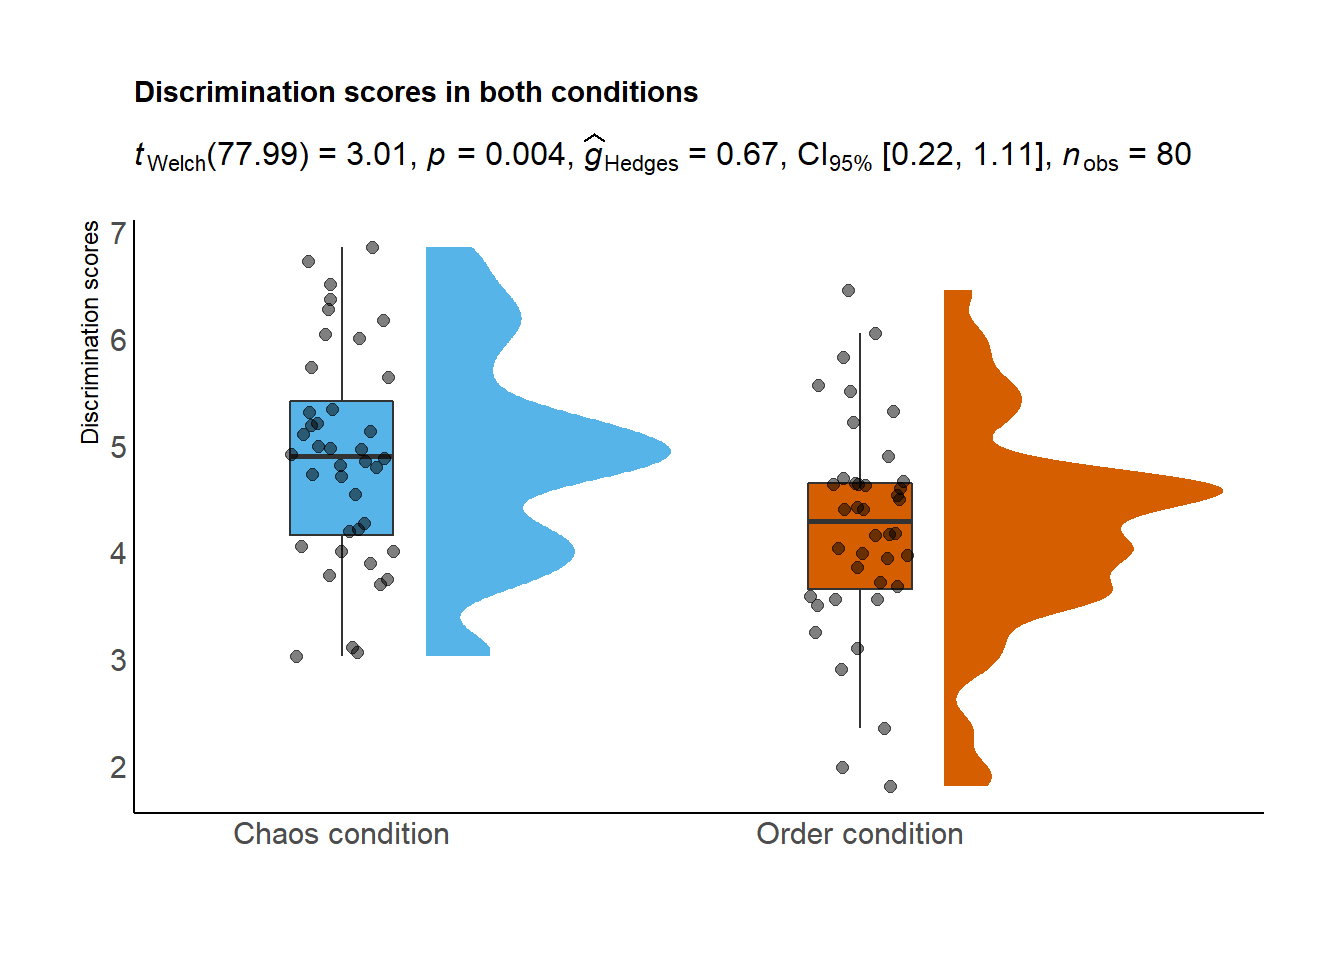
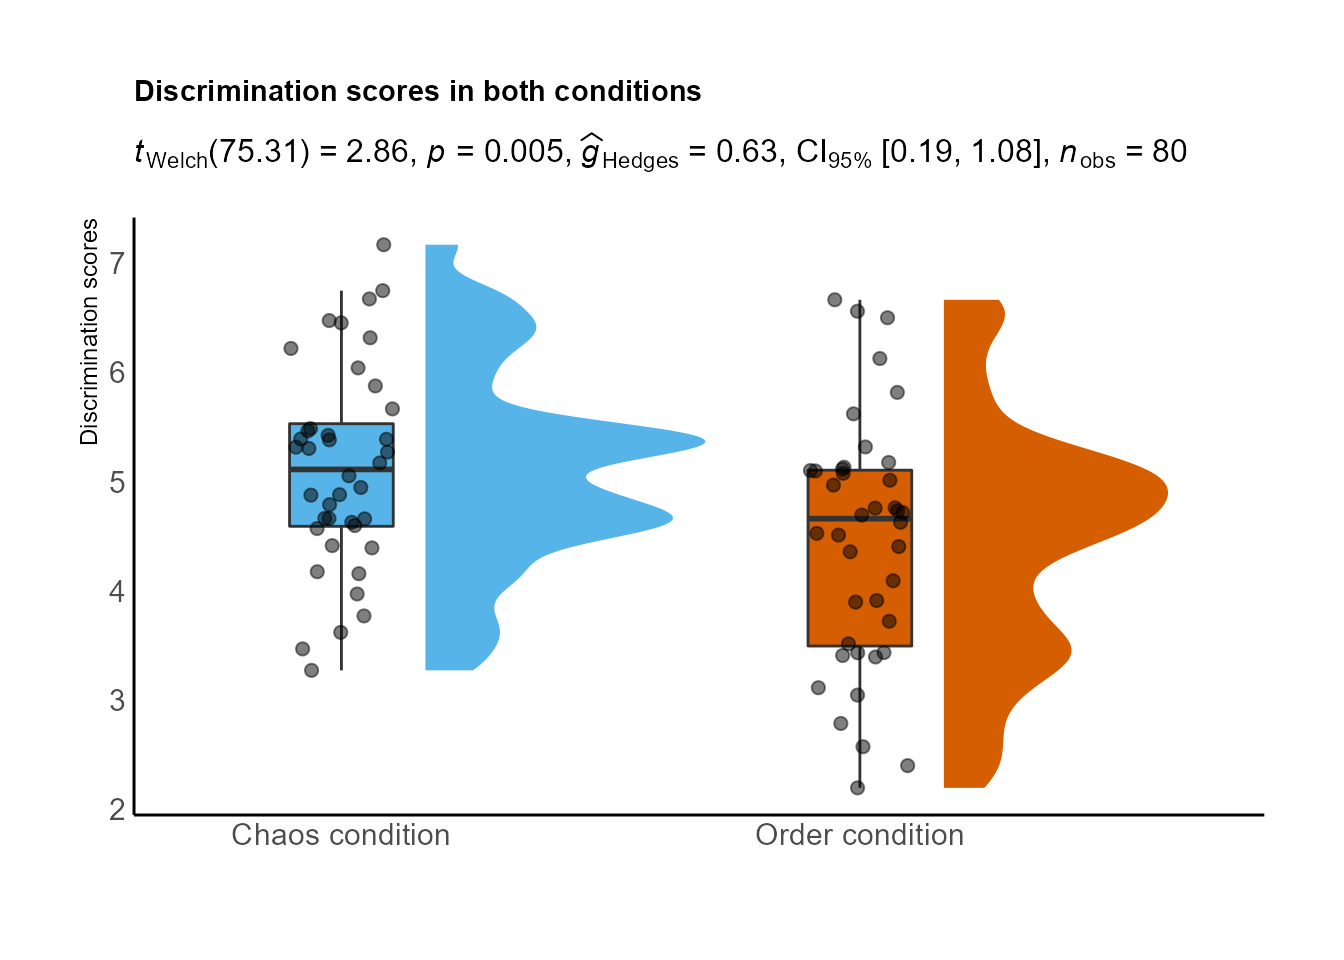
post

diff --git a/content/post/CopyOf2020-12-01-r-rmarkdown/index.html b/content/post/CopyOf2020-12-01-r-rmarkdown/index.html
@@ -82,7 +82,7 @@ library(ggplot2)</code></pre>
 ##  Shapiro-Wilk normality test
 ## 
 ## data:  dd[x, ]
-## W = 0.9746, p-value = 0.4967
+## W = 0.98371, p-value = 0.8228
 ## 
 ## --------------------------------------------------------------------------------------------------------------------------------------------------------------------------------------------------------------------------------------------------------------------------------------------------------------------------------------------------------------------------------------------------------------------------------------------------------------------------------------------------------------------------------------------- 
 ## data$condition: Order condition
@@ -90,7 +90,7 @@ library(ggplot2)</code></pre>
 ##  Shapiro-Wilk normality test
 ## 
 ## data:  dd[x, ]
-## W = 0.97647, p-value = 0.5607</code></pre>
+## W = 0.97414, p-value = 0.4815</code></pre>
 <p>Para comprobar la homogeneidad de las varianzas:</p>
 <p>F-test:</p>
 <pre class="r"><code>var.test(data$discrimination ~ data$condition) #F-test para comprobar la homogeneidad de las varianzas</code></pre>
@@ -98,18 +98,18 @@ library(ggplot2)</code></pre>
 ##  F test to compare two variances
 ## 
 ## data:  data$discrimination by data$condition
-## F = 0.98264, num df = 39, denom df = 39, p-value = 0.9567
+## F = 0.68234, num df = 39, denom df = 39, p-value = 0.2371
 ## alternative hypothesis: true ratio of variances is not equal to 1
 ## 95 percent confidence interval:
-##  0.5197181 1.8578978
+##  0.360889 1.290113
 ## sample estimates:
 ## ratio of variances 
-##          0.9826409</code></pre>
+##          0.6823398</code></pre>
 <p>Test de Levene. Por defecto utiliza la mediana (más robusto), pero podemos elegir la media con sustituyendo en el argumento center = “mean”</p>
 <pre class="r"><code>leveneTest(y = data$discrimination, group = data$condition, center = &quot;median&quot;) </code></pre>
 <pre><code>## Levene&#39;s Test for Homogeneity of Variance (center = &quot;median&quot;)
 ##       Df F value Pr(&gt;F)
-## group  1  0.0178 0.8941
+## group  1  1.0802 0.3019
 ##       78</code></pre>
 <p>Test de Barlett:</p>
 <pre class="r"><code>bartlett.test(data$discrimination ~ data$condition)</code></pre>
@@ -117,7 +117,7 @@ library(ggplot2)</code></pre>
 ##  Bartlett test of homogeneity of variances
 ## 
 ## data:  data$discrimination by data$condition
-## Bartlett&#39;s K-squared = 0.002952, df = 1, p-value = 0.9567</code></pre>
+## Bartlett&#39;s K-squared = 1.3979, df = 1, p-value = 0.2371</code></pre>
 <p>También podemos realizar el test de Brown-Forsyth con la función hov() del paquete HH o el Fligner-Killeen test utilizando la misma fórmula y la función fligner.test().</p>
 <p>Si el resultado del test que elijamos es p &lt; .05 no podemos asumir que las varianzas son iguales. Estas pruebas apuntarían a que nuestros grupos las varianzas no son homogéneas y utilizaríamos pruebas distintas para calcular si hay diferencias significativas entre las medias.</p>
 <p>Si utilizamos t.test() para las diferencias de medias el propio programa lleva a cabo una prueba (e.g. Two Sample t-test) u otra (e.g. Welch Two Sample t-test) en función de si hay igualdad de las varianzas, pero podemos forzarlo asumir igualdad de varianzas con el argumento var.equal = TRUE o a asumir lo contrario, con el argumento var.equal = FALSE. Por tanto, está bien tener control sobre lo que hacemos y elegir la mejor prueba, teniendo en cuanta nuestras consideraciones teóricas, para estudiar la homogeneidad de la varianza y, en consecuencia, el mejor test de comparación de medias.</p>
@@ -131,46 +131,46 @@ library(ggplot2)</code></pre>
 ##  Two Sample t-test
 ## 
 ## data:  discrimination by condition
-## t = 3.0058, df = 78, p-value = 0.003562
+## t = 2.8596, df = 78, p-value = 0.00544
 ## alternative hypothesis: true difference in means between group Chaos condition and group Order condition is not equal to 0
 ## 95 percent confidence interval:
-##  0.2276688 1.1208012
+##  0.2013203 1.1240440
 ## sample estimates:
 ## mean in group Chaos condition mean in group Order condition 
-##                      4.896863                      4.222628</code></pre>
+##                      5.120439                      4.457757</code></pre>
 <p>Si no podemos asumir varianzas iguales:</p>
 <pre class="r"><code>t.test(discrimination ~ condition, data = data, alternative = &quot;two.sided&quot;, var.equal = FALSE)</code></pre>
 <pre><code>## 
 ##  Welch Two Sample t-test
 ## 
 ## data:  discrimination by condition
-## t = 3.0058, df = 77.994, p-value = 0.003562
+## t = 2.8596, df = 75.315, p-value = 0.005485
 ## alternative hypothesis: true difference in means between group Chaos condition and group Order condition is not equal to 0
 ## 95 percent confidence interval:
-##  0.2276682 1.1208017
+##  0.201061 1.124303
 ## sample estimates:
 ## mean in group Chaos condition mean in group Order condition 
-##                      4.896863                      4.222628</code></pre>
+##                      5.120439                      4.457757</code></pre>
 <p>Medidas repetidas</p>
 <pre class="r"><code>t.test(discrimination ~ condition, data = data, alternative = &quot;two.sided&quot;, paired = TRUE, var.equal = TRUE)</code></pre>
 <pre><code>## 
 ##  Paired t-test
 ## 
 ## data:  discrimination by condition
-## t = 3.023, df = 39, p-value = 0.004408
+## t = 3.1202, df = 39, p-value = 0.003394
 ## alternative hypothesis: true difference in means is not equal to 0
 ## 95 percent confidence interval:
-##  0.2231039 1.1253660
+##  0.2330952 1.0922691
 ## sample estimates:
 ## mean of the differences 
-##                0.674235</code></pre>
+##               0.6626821</code></pre>
 <p>Si los datos no siguen una distribución normal, como test no paramétrico, podemos utilizar el de Wilcoxon:</p>
 <pre class="r"><code>wilcox.test(data$discrimination ~ data$condition, alternative = &quot;two.sided&quot;, paired = FALSE) #Para medidas repetidas en el argumento paired escribiríamos TRUE</code></pre>
 <pre><code>## 
 ##  Wilcoxon rank sum exact test
 ## 
 ## data:  data$discrimination by data$condition
-## W = 1107, p-value = 0.002854
+## W = 1070, p-value = 0.008991
 ## alternative hypothesis: true location shift is not equal to 0</code></pre>
 </div>
 <div id="la-lógica-subyacente" class="section level1">
@@ -200,7 +200,7 @@ difmed</code></pre>
 ## # A tibble: 1 x 1
 ##    stat
 ##   &lt;dbl&gt;
-## 1 0.674</code></pre>
+## 1 0.663</code></pre>
 <p>Ahora calculamos el intervalo de confianza usando una distribución ‘bootstrapped’ de las diferencias de medias basada en nuestra muestra.</p>
 <pre class="r"><code>medboot &lt;- data %&gt;% 
   specify(discrimination ~ condition) %&gt;% 
@@ -218,7 +218,7 @@ medboot %&gt;%
        x = &quot;Chaos condition - Order condition&quot;, y = &quot;Count&quot;,
        subtitle = &quot;La línea roja muestra la diferencia observada; la zona sombreada muestra el intervalo de confianza al 95%&quot;) +
   theme_fancy()</code></pre>
-<p><img src="{{< blogdown/postref >}}index_files/figure-html/unnamed-chunk-14-1.png" width="100%" /></p>
+<p><img src="{{< blogdown/postref >}}index_files/figure-html/unnamed-chunk-14-1.png" width="8000" /></p>
 <p>Ya tenemos calculado nuestro estadístico. Ahora simulamos un mundo donde este sea nulo y añadimos nuestro estadístico a esta población (lo representa la línea roja en el último gráfico de este apatado).</p>
 <pre class="r"><code>#Generamos un &#39;mundo&#39; donde las diferencias son nulas. 
 cond_diffs_null &lt;- data %&gt;% 
@@ -236,7 +236,7 @@ cond_diffs_null %&gt;%
        title = &quot;Distribución nula de las diferencias de medias basada en la simulación&quot;,
        subtitle = &quot;La línea roja muestra la diferencia observada&quot;) +
   theme_fancy()</code></pre>
-<p><img src="{{< blogdown/postref >}}index_files/figure-html/unnamed-chunk-15-1.png" width="100%" /></p>
+<p><img src="{{< blogdown/postref >}}index_files/figure-html/unnamed-chunk-15-1.png" width="8000" /></p>
 <p>Vemos que parece muy poco probable observar este valor del estadístico en un mundo donde no haya diferencias entre los grupos.</p>
 <pre class="r"><code>cond_diffs_null %&gt;% 
   get_p_value(obs_stat = difmed, direction = &quot;both&quot;) %&gt;% 
@@ -253,13 +253,13 @@ cond_diffs_null %&gt;%
 <pre class="r"><code>cohens_d(data$discrimination, y = data$condition, ci = 0.95, pooled_sd = TRUE) #Con pooled_sd = TRUE indicamos que utilice la desviación típica agrupada de ambas muestras. Asumimos que las varianzas son iguales. </code></pre>
 <pre><code>## Cohen&#39;s d |       95% CI
 ## ------------------------
-## 0.67      | [0.22, 1.12]
+## 0.64      | [0.19, 1.09]
 ## 
 ## - Estimated using pooled SD.</code></pre>
 <pre class="r"><code>hedges_g(data$discrimination, y = data$condition, ci = 0.95, pooled_sd = FALSE)</code></pre>
 <pre><code>## Hedges&#39; g |       95% CI
 ## ------------------------
-## 0.67      | [0.22, 1.11]
+## 0.63      | [0.19, 1.08]
 ## 
 ## - Estimated using un-pooled SD.</code></pre>
 <div id="interpretar-y-transformar-el-tamaño-del-efecto" class="section level2">
@@ -290,7 +290,7 @@ var.equal, plot = TRUE, verbose = TRUE)</p>
 #Con nuestros datos#
 
 TOSTtwo(m1 = 5.218811, m2 = 4.031867, sd1 = 1.088976, sd2 = 1.072184, n1 = 40, n2 = 40, low_eqbound_d = -0.34, high_eqbound_d = 0.34, alpha = 0.05, var.equal = TRUE, plot = TRUE, verbose = TRUE)</code></pre>
-<p><img src="{{< blogdown/postref >}}index_files/figure-html/unnamed-chunk-20-1.png" width="100%" /></p>
+<p><img src="{{< blogdown/postref >}}index_files/figure-html/unnamed-chunk-20-1.png" width="672" /></p>
 <pre><code>## TOST results:
 ## t-value lower bound: 6.43    p-value lower bound: 0.000000005
 ## t-value upper bound: 3.39    p-value upper bound: 0.999
@@ -355,13 +355,13 @@ barplt &lt;- ggplot(infograph) +
 barplt2 &lt;- barplt + theme_pubr(base_size = 10, border = FALSE, margin = TRUE, legend = &quot;none&quot;)
 
 barplt2</code></pre>
-<p><img src="{{< blogdown/postref >}}index_files/figure-html/unnamed-chunk-21-1.png" width="100%" /></p>
+<p><img src="{{< blogdown/postref >}}index_files/figure-html/unnamed-chunk-21-1.png" width="672" /></p>
 </div>
 <div id="gráficos-de-violín" class="section level2">
 <h2>7.2. Gráficos de violín</h2>
 <p>La forma más rápida de hacer un violin plot con bastante información es con ggbetweenstats, del paquete ggstatsplot</p>
 <pre class="r"><code>ggbetweenstats(data = data, x = condition, y = discrimination)</code></pre>
-<p><img src="{{< blogdown/postref >}}index_files/figure-html/unnamed-chunk-22-1.png" width="100%" /></p>
+<p><img src="{{< blogdown/postref >}}index_files/figure-html/unnamed-chunk-22-1.png" width="672" /></p>
 <pre class="r"><code>#Tenemos muchas opciones para modificarlo
 
 ggbetweenstats(
@@ -407,7 +407,7 @@ ggbetweenstats(
   ggplot.component = NULL,
   output = &quot;plot&quot;) + xlab(&quot;Experimental Condition&quot;) + 
     ylab(&quot;Discrimination scores&quot;)</code></pre>
-<p><img src="{{< blogdown/postref >}}index_files/figure-html/unnamed-chunk-22-2.png" width="100%" /></p>
+<p><img src="{{< blogdown/postref >}}index_files/figure-html/unnamed-chunk-22-2.png" width="672" /></p>
 <p>Otra forma de hacer gráficos de violín:</p>
 <pre class="r"><code>library(viridis)
 library(hrbrthemes)
@@ -430,7 +430,7 @@ ggplot(data, aes(x=condition, y= discrimination, fill=condition)) +
     ylab(&quot;Discrimination scores&quot;) + 
   scale_fill_manual(values = c(&quot;#56B4E9&quot;, &quot;#D55E00&quot;)) +
   theme_pubr(base_size = 11, border = FALSE, margin = TRUE, legend = &quot;none&quot;)</code></pre>
-<p><img src="{{< blogdown/postref >}}index_files/figure-html/unnamed-chunk-23-1.png" width="100%" /></p>
+<p><img src="{{< blogdown/postref >}}index_files/figure-html/unnamed-chunk-23-1.png" width="672" /></p>
 <p>Otra posibilidad más:</p>
 <pre class="r"><code>library(gghalves)
 
@@ -463,7 +463,7 @@ ggplot(data, aes(x = condition, y = discrimination, fill = condition)) +
     ggtitle(&quot;Discrimination scores in both conditions&quot;) +
     xlab(&quot;&quot;) + 
     ylab(&quot;Discrimination scores&quot;) + scale_fill_brewer(palette=&quot;Dark2&quot;) + scale_fill_manual(values = c(&quot;#56B4E9&quot;, &quot;#D55E00&quot;)) </code></pre>
-<p><img src="{{< blogdown/postref >}}index_files/figure-html/unnamed-chunk-24-1.png" width="100%" /></p>
+<p><img src="{{< blogdown/postref >}}index_files/figure-html/unnamed-chunk-24-1.png" width="672" /></p>
 <p>Ahora incluyendo si las diferencias son significativas con el paquete ‘ggsignif’</p>
 <pre class="r"><code>library(ggsignif)
 
@@ -500,7 +500,7 @@ ggplot(data, aes(x = condition, y = discrimination, fill = condition)) +
     ggtitle(&quot;Discrimination scores in both conditions&quot;) +
     xlab(&quot;&quot;) + 
     ylab(&quot;Discrimination scores&quot;) + scale_fill_brewer(palette=&quot;Dark2&quot;) + scale_fill_manual(values = c(&quot;#56B4E9&quot;, &quot;#D55E00&quot;)) </code></pre>
-<p><img src="{{< blogdown/postref >}}index_files/figure-html/unnamed-chunk-25-1.png" width="100%" /></p>
+<p><img src="{{< blogdown/postref >}}index_files/figure-html/unnamed-chunk-25-1.png" width="672" /></p>
 <p>También podríamos incluir el resultado directamente con el paquete ‘statsExpressions’:</p>
 <pre class="r"><code>library(statsExpressions)
 
@@ -535,7 +535,7 @@ ggplot(data, aes(x = condition, y = discrimination, fill = condition)) +
     ggtitle(&quot;Discrimination scores in both conditions&quot;, subtitle = expresion$expression[[1]]) +
     xlab(&quot;&quot;) + 
     ylab(&quot;Discrimination scores&quot;) + scale_fill_brewer(palette=&quot;Dark2&quot;) + scale_fill_manual(values = c(&quot;#56B4E9&quot;, &quot;#D55E00&quot;)) </code></pre>
-<p><img src="{{< blogdown/postref >}}index_files/figure-html/unnamed-chunk-26-1.png" width="100%" /></p>
+<p><img src="{{< blogdown/postref >}}index_files/figure-html/unnamed-chunk-26-1.png" width="672" /></p>
 </div>
 <div id="otros-gráficos" class="section level2">
 <h2>7.3. Otros gráficos</h2>
@@ -550,11 +550,11 @@ two.group &lt;-
 two.group.meandiff &lt;- mean_diff(two.group)
 
 plot(two.group.meandiff, rawplot.ylabel = &quot;Discrimation scores&quot;, rawplot.markersize = 3)</code></pre>
-<p><img src="{{< blogdown/postref >}}index_files/figure-html/unnamed-chunk-27-1.png" width="100%" /></p>
+<p><img src="{{< blogdown/postref >}}index_files/figure-html/unnamed-chunk-27-1.png" width="672" /></p>
 <pre class="r"><code>two.group.effsize &lt;- cohens_d(two.group)
 
 plot(two.group.effsize, rawplot.ylabel = &quot;Discrimation scores&quot;, rawplot.markersize = 1.5)</code></pre>
-<p><img src="{{< blogdown/postref >}}index_files/figure-html/unnamed-chunk-27-2.png" width="100%" /></p>
+<p><img src="{{< blogdown/postref >}}index_files/figure-html/unnamed-chunk-27-2.png" width="672" /></p>
 </div>
 <div id="guardar-los-gráficos" class="section level2">
 <h2>7.4. Guardar los gráficos</h2>

diff --git a/content/post/2021-11-26-recetas-precarias-ii/index.html b/content/post/2021-11-26-recetas-precarias-ii/index.html
@@ -1,0 +1,27 @@
+---
+title: Recetas precaRias (II)
+author: Mar Montoya
+date: '2021-11-26'
+slug: recetas-precarias-ii
+categories:
+  - Otros
+tags:
+  - Comida
+output:
+  blogdown::html_page:
+    toc: true
+    css: "/css/my-style.css"
+leng: es-ES 
+---
+
+<script src="{{< blogdown/postref >}}index_files/header-attrs/header-attrs.js"></script>
+  <link rel="stylesheet" href="C:/css/my-style.css" type="text/css" />
+
+
+<p>Nuestra amiga Mar, gran investigadora y mejor memera, nos envía su receta y triste historia:</p>
+<hr />
+<p>Era mi cumpleaños y quería llevar un bizcocho de zanahoria para celebrarlo en el CIMCYC con mis compañeras/os. Leí una receta de mi madre de un bizcocho buenísimo y me puse manos a la obra.</p>
+<p>SPOILER: salió mal.</p>
+<p><img src="{{< blogdown/postref >}}index_files/images/biscocho.png" height="300" /></p>
+<p>Nótese la ausencia de grosor.</p>
+<p>P.D.: Aún no sé dónde estuvo el fallo.</p>

diff --git a/content/post/2021-11-26-recetas-precarias-ii/index_files/header-attrs/header-attrs.js b/content/post/2021-11-26-recetas-precarias-ii/index_files/header-attrs/header-attrs.js
@@ -1,0 +1,12 @@
+// Pandoc 2.9 adds attributes on both header and div. We remove the former (to
+// be compatible with the behavior of Pandoc < 2.8).
+document.addEventListener('DOMContentLoaded', function(e) {
+  var hs = document.querySelectorAll("div.section[class*='level'] > :first-child");
+  var i, h, a;
+  for (i = 0; i < hs.length; i++) {
+    h = hs[i];
+    if (!/^h[1-6]$/i.test(h.tagName)) continue;  // it should be a header h1-h6
+    a = h.attributes;
+    while (a.length > 0) h.removeAttribute(a[0].name);
+  }
+});
